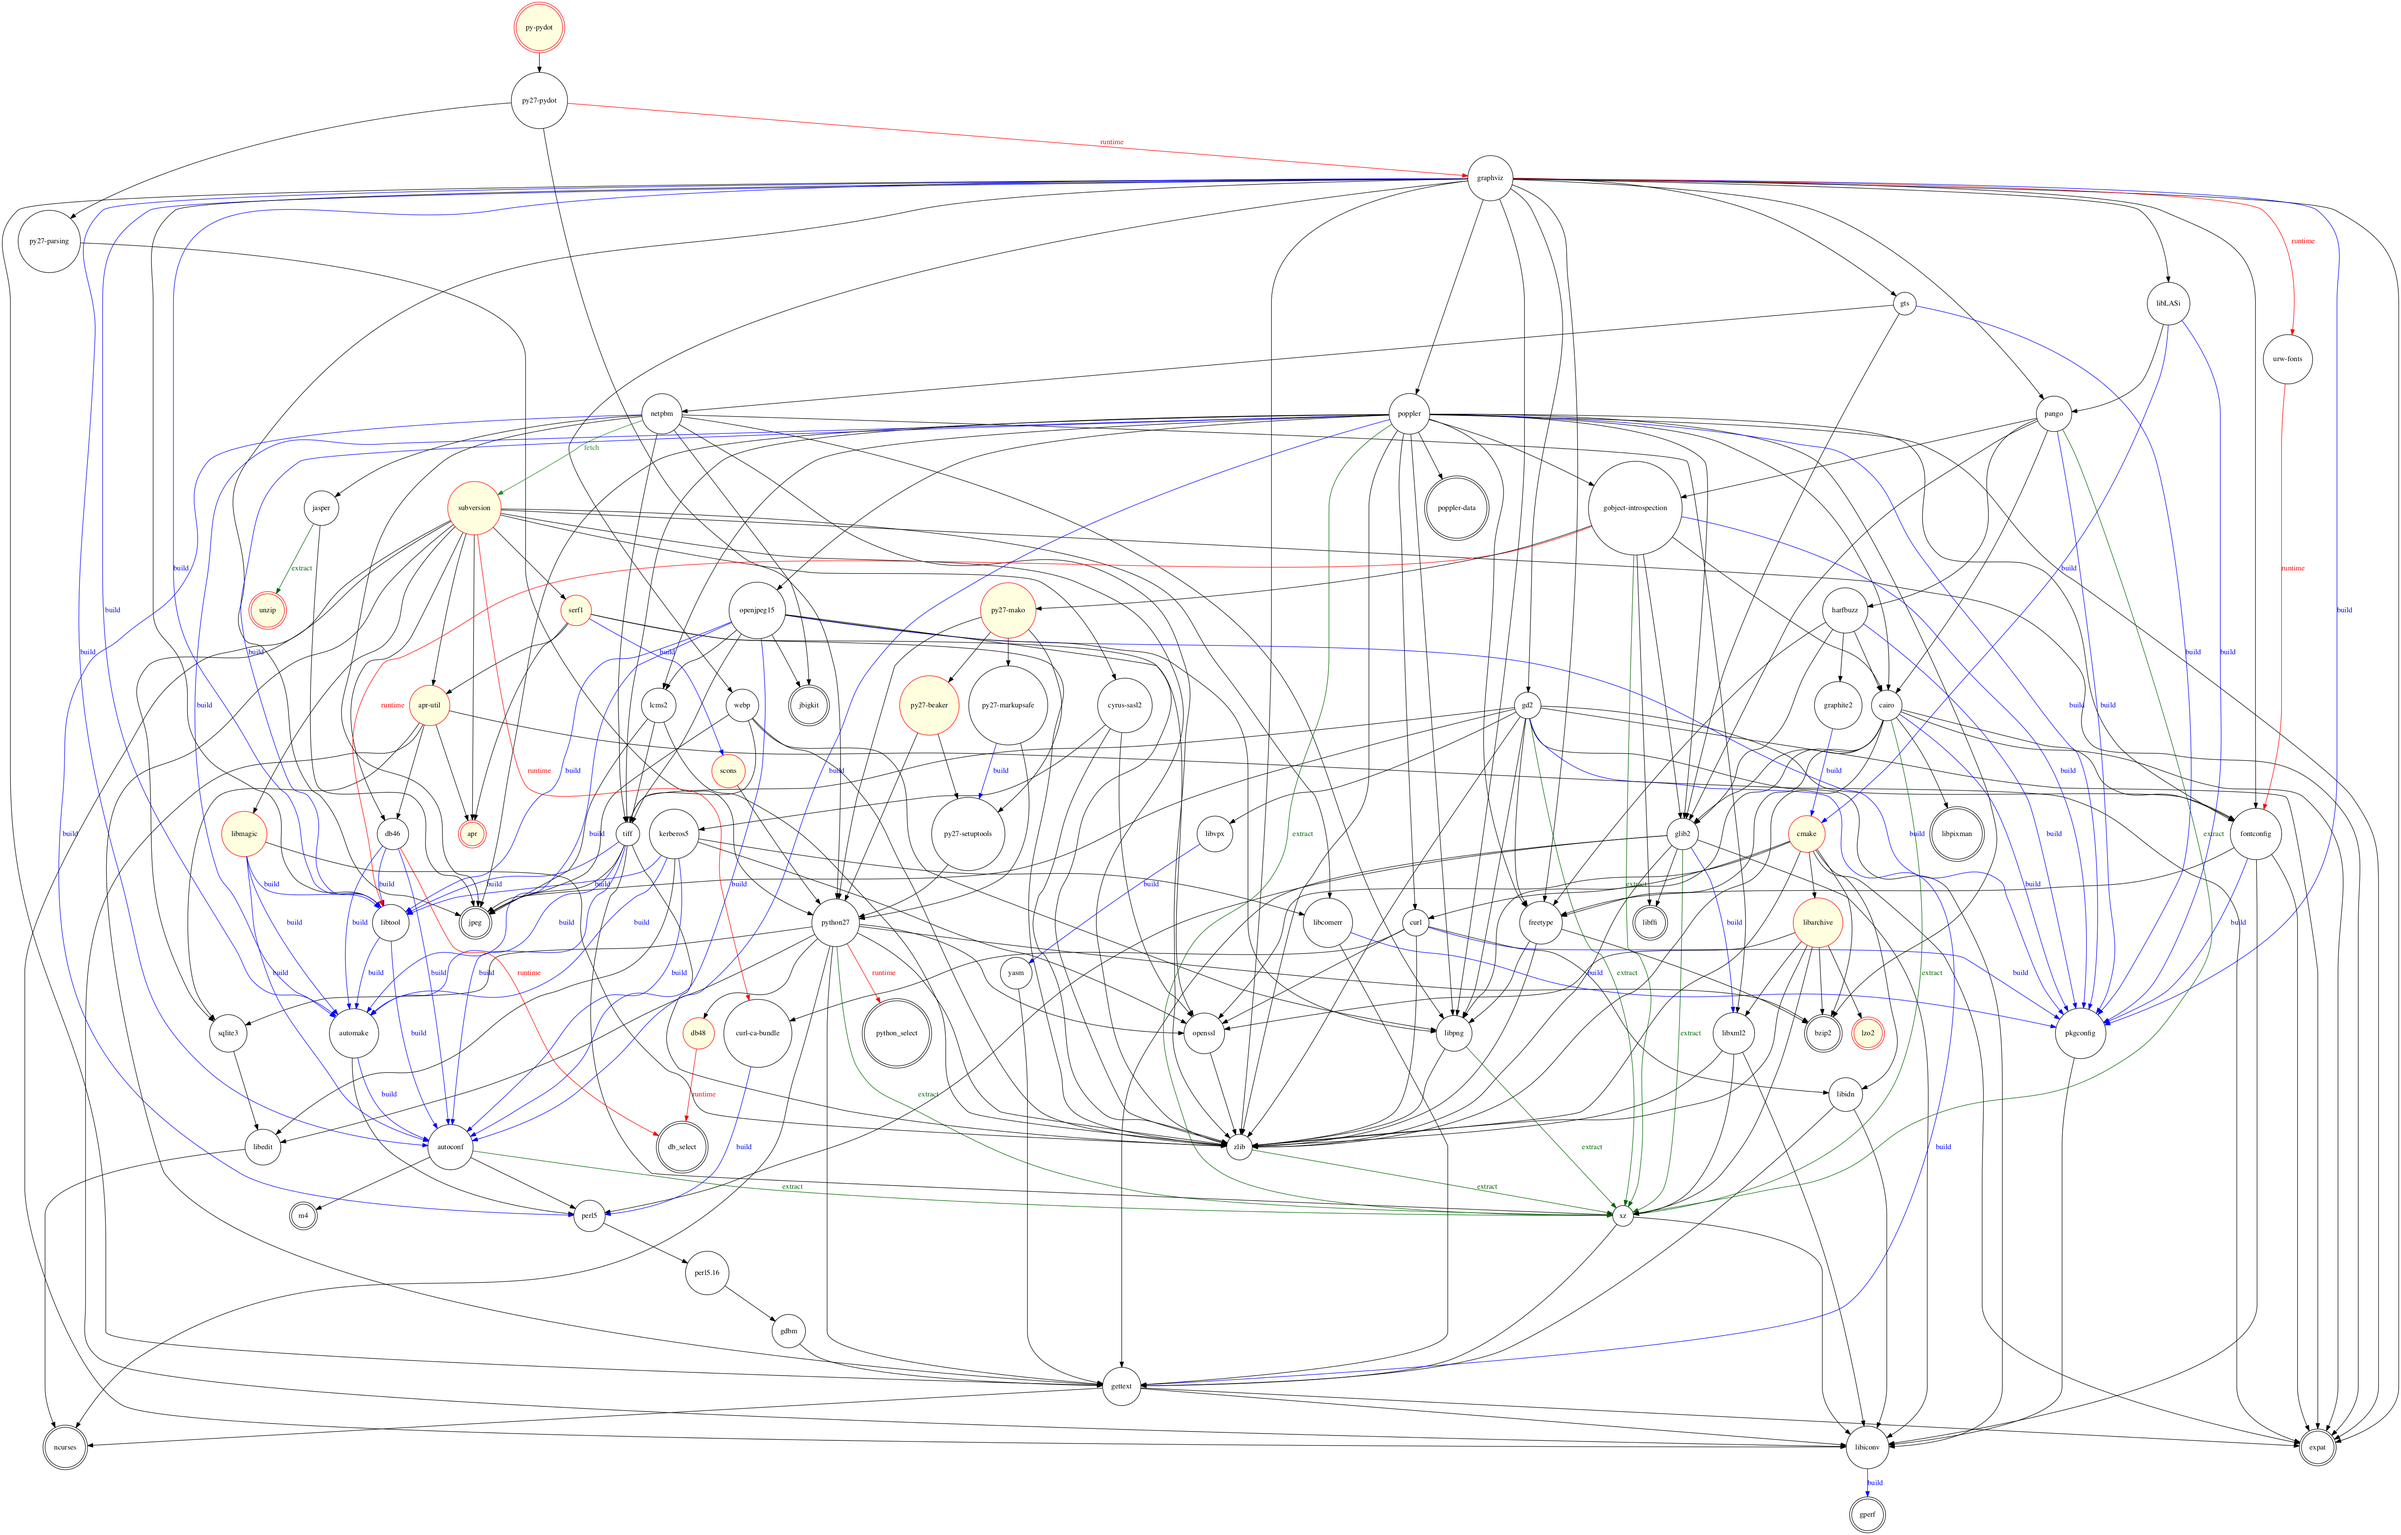
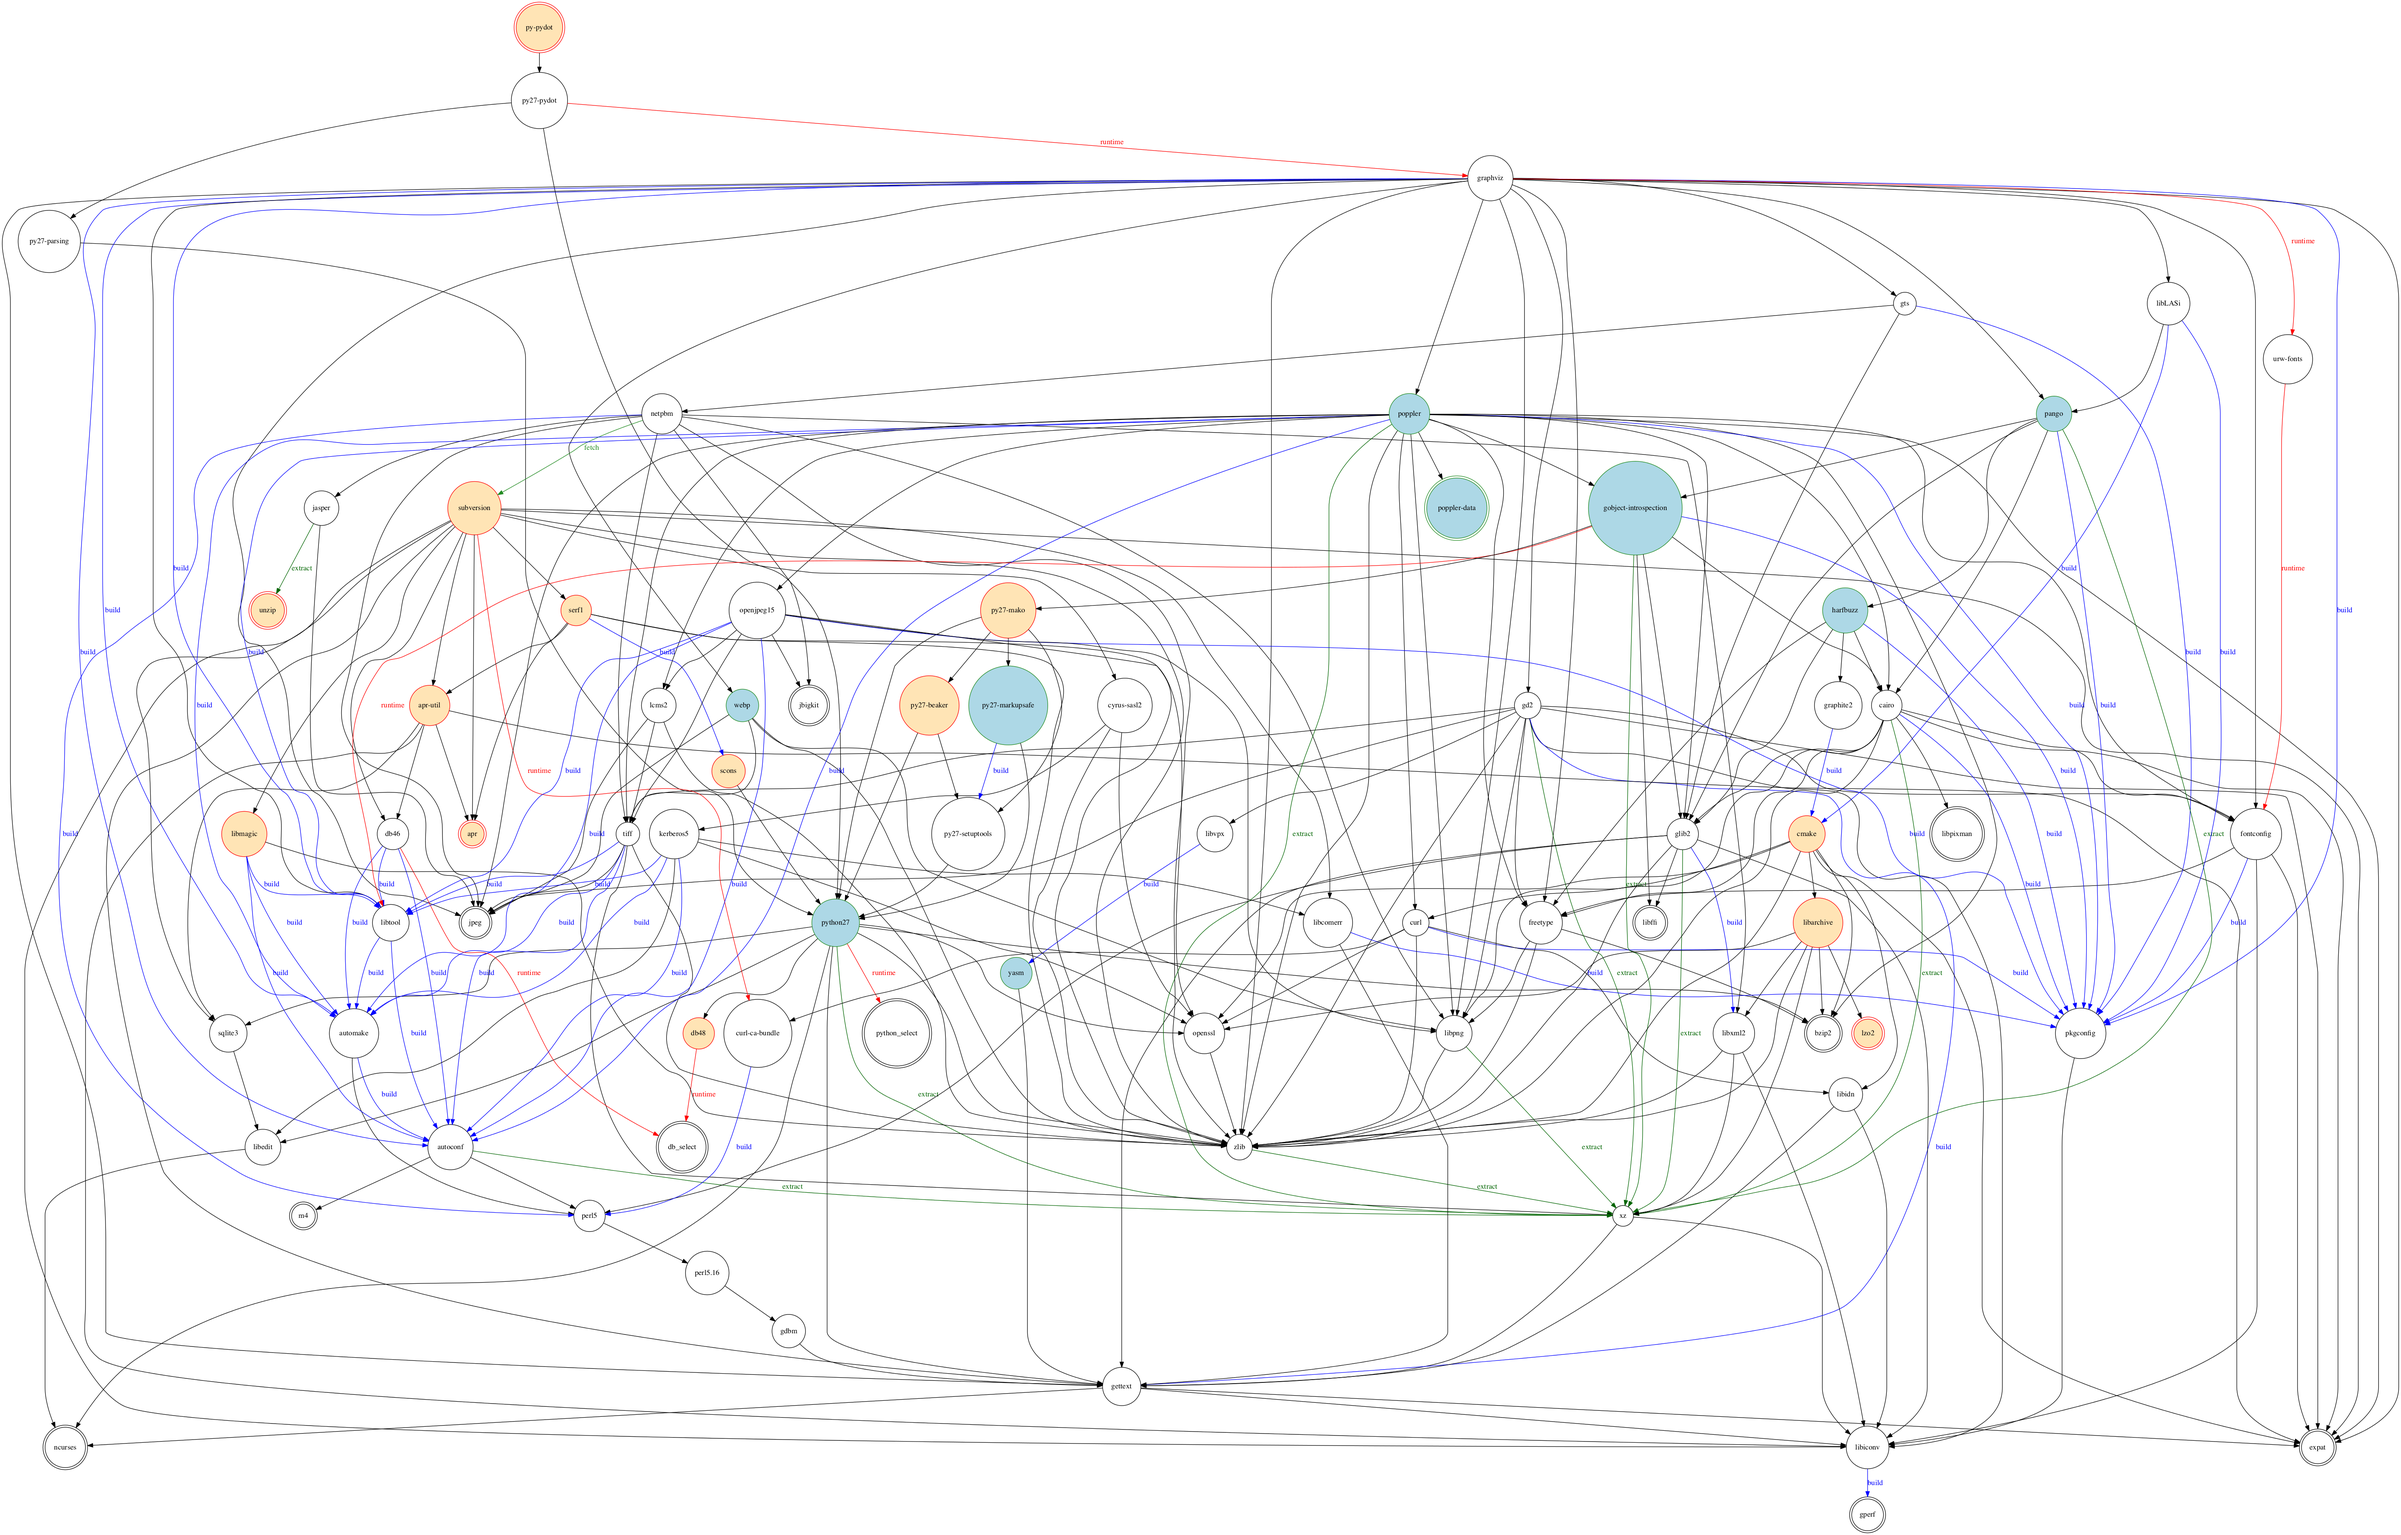
Update version to 0.3
User facing
-----------
Color outdated nodes.

Implementation
--------------
- Add is_outdated function
- Set node properties in different thread.

Threading makes the program about 25% faster.

Generation of the graph for py-pydot goes from 21 sec to 16 sec on my
computer.

diff --git a/macports_deptree.py b/macports_deptree.py
@@ -13,8 +13,25 @@ Example:
 """
 import sys
 import subprocess
+import threading
+from Queue import Queue
 import pydot
-__version__ = "0.2"
+__version__ = "0.3"
+
+
+class ThreadHandler(threading.Thread):
+
+    def __init__(self, func, queue):
+        super(ThreadHandler, self).__init__()
+        self.setDaemon(True)
+        self.func = func
+        self.queue = queue
+
+    def run(self):
+        while True:
+            item = self.queue.get()
+            self.func(item)
+            self.queue.task_done()
 
 
 def is_installed(portname):
@@ -23,6 +40,14 @@ def is_installed(portname):
     for line in subprocess.Popen(
             process, stdout=subprocess.PIPE).stdout.readlines():
         return not line.startswith("None")
+
+
+def is_outdated(portname):
+    """Return True if `portname` is outdated, False otherwise."""
+    process = ["port", "outdated", portname]
+    for line in subprocess.Popen(
+            process, stdout=subprocess.PIPE).stdout.readlines():
+        return not line.startswith("No")
 
 
 def get_deps(portname, variants):
@@ -35,6 +60,17 @@ def get_deps(portname, variants):
         if not section.endswith("Dependencies"): continue
         for child in [child.strip() for child in children.split(",")]:
             yield section.split()[0].lower(), child
+
+
+def set_node_properties(node):
+    """Color `node` if it is outdated or not installed."""
+    portname = node.get_name().strip('"')
+    if not is_installed(portname):
+        node.set_fillcolor("moccasin")
+        node.set_color("red")
+    elif is_outdated(portname):
+        node.set_fillcolor("lightblue")
+        node.set_color("forestgreen")
 
 
 def make_tree(portname, variants):
@@ -53,15 +89,16 @@ def make_tree(portname, variants):
                       bgcolor="transparent")
     graph.set_node_defaults(style="filled", fillcolor="white",
                             shape="doublecircle")
+    node_property_q = Queue()
+    thread = ThreadHandler(set_node_properties, node_property_q)
+    thread.start()
     def traverse(parent):
         """Recursively traverse dependencies to `parent`."""
         if parent.get_name() in (node.get_name() for node in graph.get_nodes()):
             return
         else:
             graph.add_node(parent)
-        if not is_installed(parent.get_name().strip('"')):
-            parent.set_fillcolor("lightyellow")
-            parent.set_color("red")
+        node_property_q.put(parent)
         for section, portname in get_deps(
                 parent.get_name().strip('"'), variants):
             child = pydot.Node(portname)
@@ -81,6 +118,7 @@ def make_tree(portname, variants):
             traverse(child)
     root = pydot.Node(portname)
     traverse(root)
+    node_property_q.join()
     return graph
 
 

diff --git a/README.rst b/README.rst
@@ -8,8 +8,11 @@ as a graph.  `Port Variants
 <https://guide.macports.org/#development.variants>`_ are taken into
 account.
 
-The type of dependency is indicated and dependencies that are not yet
-installed are marked with a light yellow background.
+Colors
+------
+- A light yellow background indicates dependencies that would be
+  installed.
+- A light blue background indicates dependencies that would be upgraded.
 
 Example
 -------
